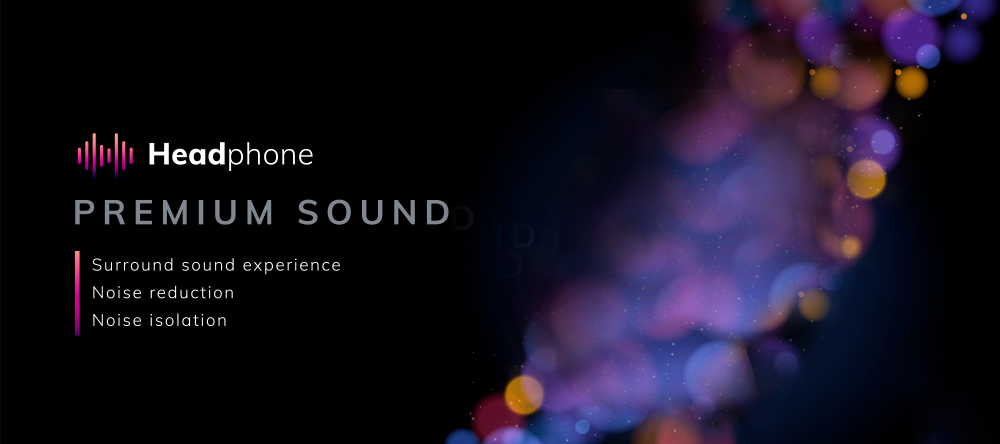
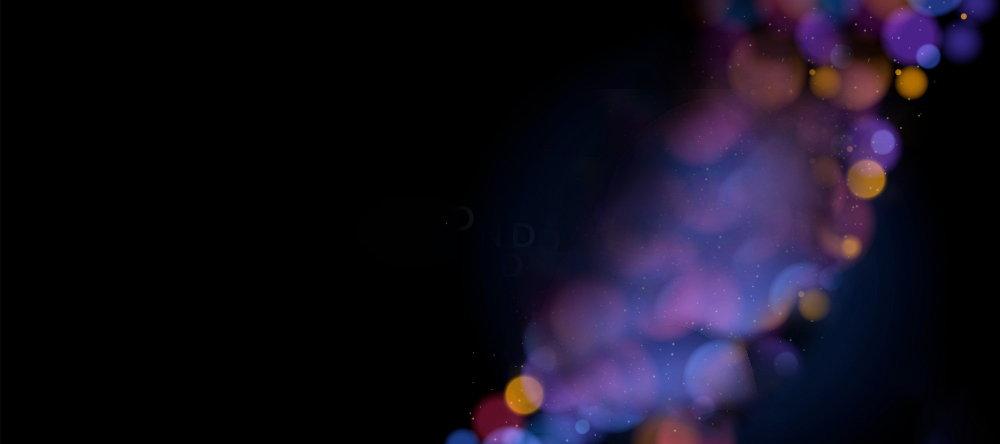
final edit

Changed region(s): [[0.062, 0.4392, 0.465, 0.527], [0.062, 0.5563, 0.341, 0.7613], [0.062, 0.2928, 0.31, 0.4099]]

diff --git a/src/Styles/HomeStyles.css b/src/Styles/HomeStyles.css
@@ -154,7 +154,7 @@
    
 }
 .card_box_design .card{
-    box-shadow: 0px 0px 10px rgba(141, 140, 140, 0.328); /* Light black box shadow */
+    box-shadow: 0px 0px 10px rgba(165, 164, 164, 0.328); /* Light black box shadow */
     border:1px solid black;
 }
 
@@ -206,7 +206,7 @@
 
 /* section 3 ad section */
 .ad_section .ads_box{
-    background: url("../assets/ad_img_back1.jpeg") no-repeat center right;
+    background: url("../assets/ad_img_back1.jpeg") no-repeat center center;
     background-size: cover;
     width:100%;
 
@@ -217,32 +217,32 @@
 .ad_section .ads_box h1{
     font-weight: 400;
     text-shadow: 2px 2px 2px black;
-    margin-left: 15px;
 }
 .ad_section .ads_box h2{
-    margin-left: 75px;
     color: var(--yellow);
     text-shadow: 2px 2px 2px black;
     font-weight: 300px;
     text-transform: none;
 }
-.ad_section .ads_box h5{
-    margin-left: 75px;
+.ad_section .ads_box h3{
+    color:white;
+    letter-spacing: 1px;
+    text-shadow: 1px 1px 1px rgb(255, 232, 103);
+    
+}
+.ad_section .ads_box i{
+  color:rgb(252, 39, 252);
+  
+}
+.ad_section .ads_box h6{
     color: var(--yellow);
     text-shadow: 2px 2px 2px black;
     text-transform: none;
+    margin-left: 40px;
 }
-.earbud_img{
-   height:100% !important;
-    width:100% !important;  
-}
-.earbud_img_div{
-
-    width: 183px;
-    height: 122px;
-    position: relative;
-    left: 66px;
-}
+.ad_section .row {
+    padding:15px;
+ }
 .form-control:focus {
     border-color: #0967f0;
     outline: 0;
@@ -282,33 +282,33 @@
    }
 }
 /* ad section section 3*/
-@media (max-width:569px){
-
-
-     .ad_section .ads_box{
-        height:243px;
-     }
-
-}
 @media (max-width:767px){
-    .ad_section .ads_box h1{
-        margin-left: 5px;
+    .ad_section .ads_box h3 {
+       font-size: 1.5rem;
     }
     .ad_section .ads_box h2{
-        margin-left: 5px;
-        font-size: 1.4rem;
+        font-size: 1rem;
     }
-    .ad_section .ads_box h5{
-        margin-left: 5px;
-        
+    .ad_section .ads_box h6{
+        font-size: 0.7rem;
+        margin-left: 20px;
+    }
+
+}
+@media (max-width:580px){
+    .ad_section .row {
+        padding:15px;
+     }
+    .ad_section .ads_box h3 {
+       font-size: 1.3rem;
+    }
+    .ad_section .ads_box h2{
+        font-size: 0.7rem;
+    }
+    .ad_section .ads_box h6{
+        font-size: 0.6rem;
+        margin-left: 10px;
     }
 
 }
 
-@media (max-width:475px){
-
-  
-.earbud_img_div{
-    left: 0px;
-}
-}

diff --git a/src/Pages/Homes/Section3.js b/src/Pages/Homes/Section3.js
@@ -9,20 +9,25 @@ function Section3() {
     <section className='ad_section mt-5 mb-5'>
      <Container >
      <Row>
-     <Col  lg={8} >
-     <div className='ads_box mb-5  d-flex justify-content-between'>
-     <div>
-     <h5>Pemium Sound</h5>
-     <h2 className="mb-0">Pro Tips to Find the</h2>
-     <h2 >Right Pair</h2> 
-     </div>       
-      <div>
-      <img src={img2} className="img-fluid " alt="Hero" /> 
-      </div>
-     </div>
+     <div className='ads_box d-flex justify-content-center' >
      
+     <Col  lg={6} xs={5} md={6}className='d-flex justify-content-center align-items-center colun'>
+     <div>
+     <h3>HeadPhone</h3>
+     <h2 className="mb-2"><i class="bi bi-bar-chart">&nbsp;</i>P&nbsp;R&nbsp;E&nbsp;M&nbsp;I&nbsp;M&nbsp;U&nbsp;M &nbsp;&nbsp;&nbsp;S&nbsp;O&nbsp;U&nbsp;N&nbsp;D</h2>
+     <h6 style={{letterSpacing:"1px",marginBottom:"0px",fontFamily:"sans-serif"}}>Surround sound experience</h6> 
+     <h6 style={{letterSpacing:"1px",marginBottom:"0px",fontFamily:"sans-serif"}}>Noise reduction</h6> 
+     <h6 style={{letterSpacing:"1px",marginBottom:"0px",fontFamily:"sans-serif"}}>Noise isolation</h6> 
+     </div>         
+     </Col>
+     <Col lg={4} xs={5} className='d-flex justify-content-center align-items-center'>
+     <div>
+     <img src={img2} className="img-fluid " alt="Hero" /> 
+     </div>
      </Col>
      
+     
+     </div>
      </Row>
      
      </Container>

diff --git a/src/index.css b/src/index.css
@@ -125,3 +125,6 @@ a {
   background: transparent;
   border-color: rgb(64 28 28 / 93%);
 }
+.modal-dialog {
+  padding: 40px!important;
+}
